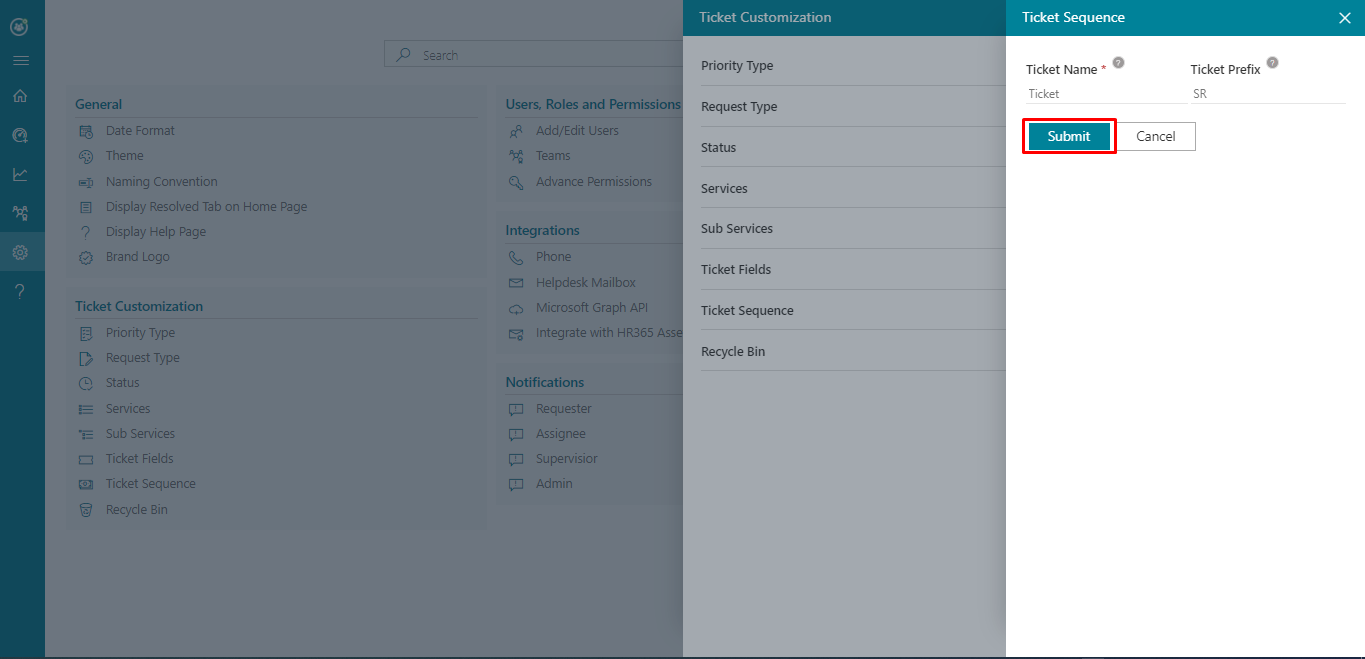
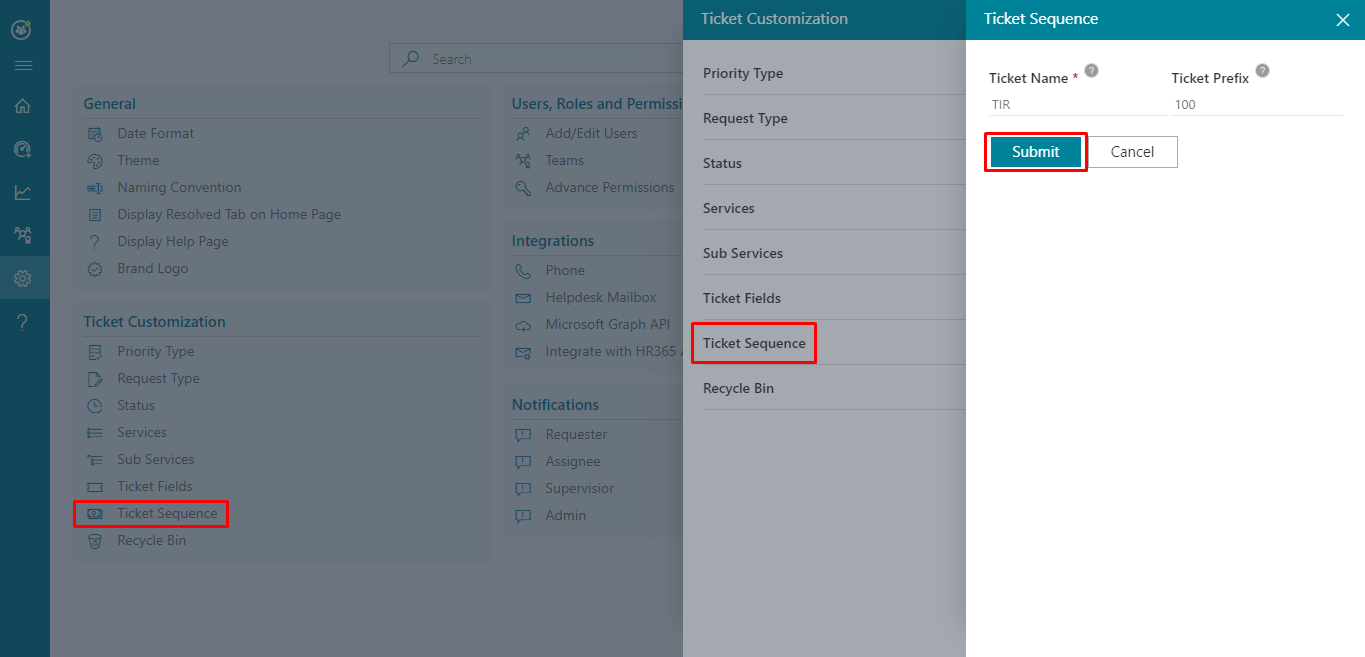
update content

diff --git a/helpdesk/guide/admin/settings/ticket_customization/ticket_field/index.html b/helpdesk/guide/admin/settings/ticket_customization/ticket_field/index.html
@@ -439,11 +439,18 @@
                             </h2>
                             <br>
 
-                            The New Ticket panel’s field order can be re-arranged from here. Arrage the fields by drag and drop and finally click on submit button. 
+                           
+                            The new Ticket panel (ticket fields) can be controlled from here.
                             <br>
-                           To hide the ticket fields in <b>New Ticket</b> panel’s, disable the toggel switch and finally click on submit button.
-                           <br>
-                           To display the ticket fields in <b>New Ticket</b> panel’s, enable the toggel switch and finally click on submit button.
+                            To order the fields simply drag and drop and click on submit button. To hide the fields disable the toggles and to show the fields enable the toggles and finally click on <b>Submit</b> button.
+                            <br>
+                            <div class="notices note">
+                                <div class="paragraph">
+                                    <p>Ticket fields settings reflect in ticket form for only user role person.</p>
+                                </div>
+                            </div>
+                         
+                            
                                 <br>
                                 <br>
                                 <div><img src="ticket_field.png" onclick="openModal('ticket_field.png')" alt="" width="100%"

diff --git a/helpdesk/guide/admin/settings/ticket_customization/ticket_sequence/index.html b/helpdesk/guide/admin/settings/ticket_customization/ticket_sequence/index.html
@@ -438,7 +438,7 @@
                                     <i class="fas fa-link" style="font-size:12px; color:lightgray;"></i></a>
                             </h2>
                             <br>
-                            From here you can provide Ticket name and ticket prefix.
+                            From here you can provide <b>Ticket Name</b> and <b>Ticket Prefix</b>.
                             <br><br>
                                 <div><img src="sequence.png" onclick="openModal('sequence.png')" alt="" width="100%"
                                     height="auto"></div>
@@ -446,8 +446,9 @@
                                    
                                     If ticket name is TID and ticket prefix is 100, the ticket ID would be TID#100XXXX.
                                     <br><br>
-
-
+                                    <div><img src="ticket_sequence.png" onclick="openModal('ticket_sequence.png')" alt="" width="100%"
+                                        height="auto"></div>
+                                        <br>
 
                                     <div class="notices note">
                                         <div class="paragraph">
